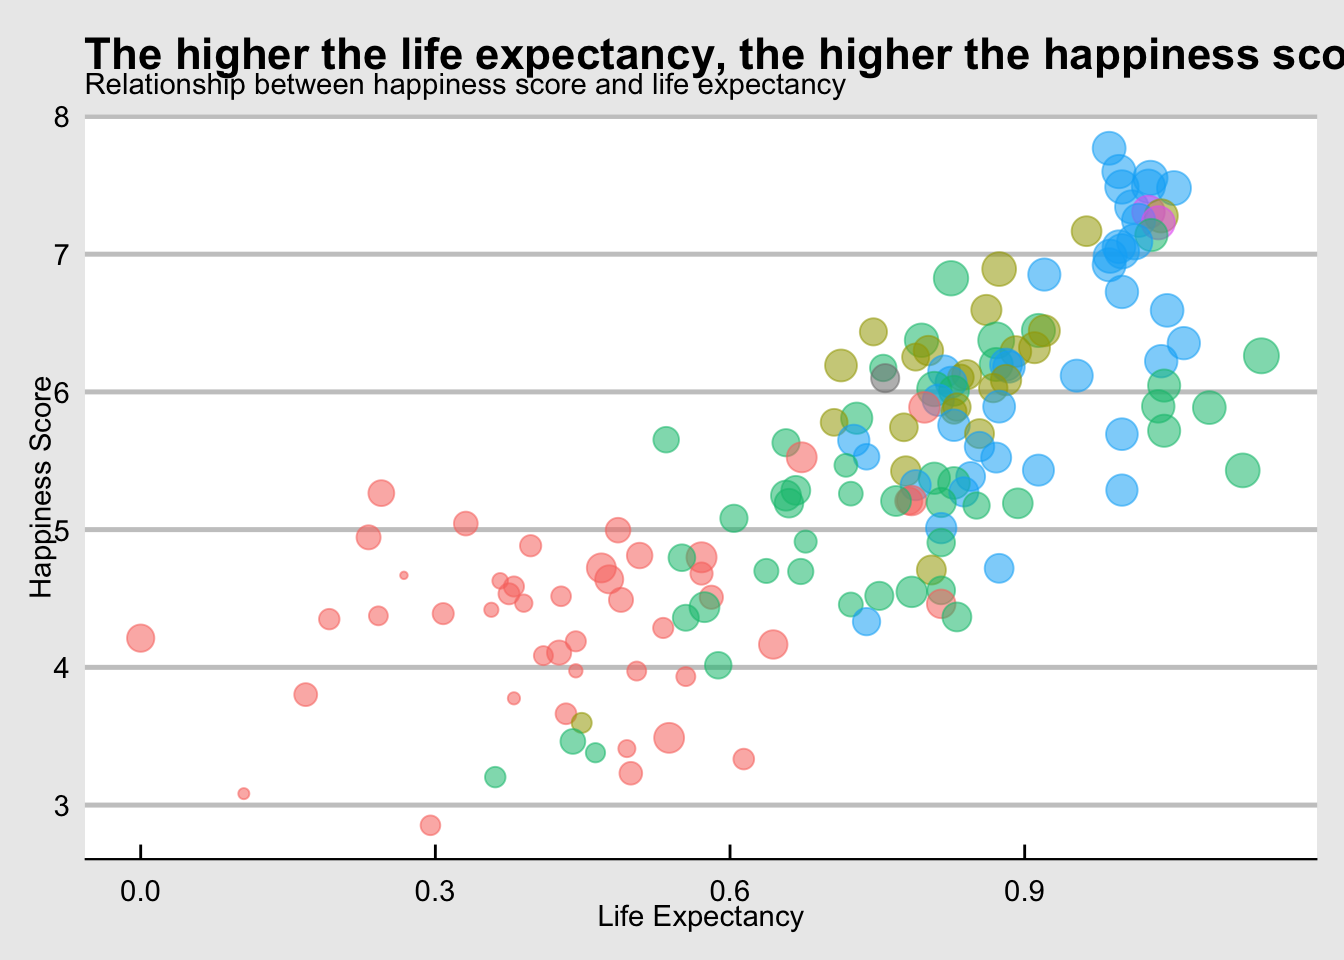
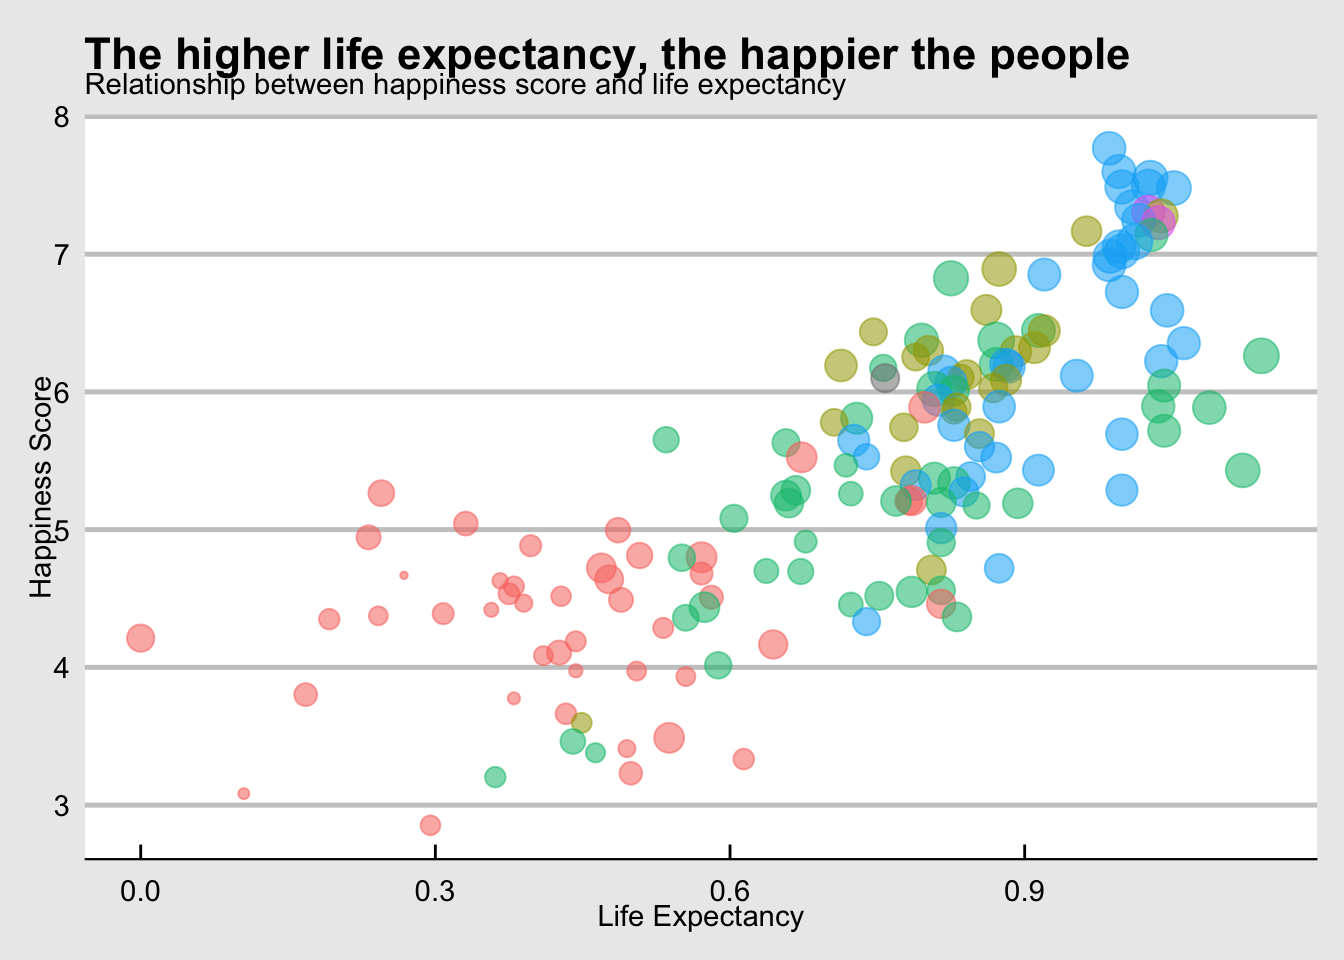
Changes

Changed region(s): [[0.25, 0.0312, 1.0, 0.0938]]

diff --git a/content/projects/project3.html b/content/projects/project3.html
@@ -326,8 +326,9 @@ ggplot(whr_19,
   geom_point()+
 
 # add labels
-  labs(title=&quot;The higher the life expectancy, the higher the happiness score&quot;,
-       subtitle = &quot;Relationship between happiness score and life expectancy&quot;, x=&quot;Life Expectancy&quot;,
+  labs(title=&quot;The higher life expectancy, the happier the people&quot;,
+       subtitle = &quot;Relationship between happiness score and life expectancy&quot;, 
+       x=&quot;Life Expectancy&quot;,
        y=&quot;Happiness Score&quot;)+
   
 #add theme

diff --git a/public/projects/project3/index.html b/public/projects/project3/index.html
@@ -400,8 +400,9 @@ ggplot(whr_19,
   geom_point()+
 
 # add labels
-  labs(title=&quot;The higher the life expectancy, the higher the happiness score&quot;,
-       subtitle = &quot;Relationship between happiness score and life expectancy&quot;, x=&quot;Life Expectancy&quot;,
+  labs(title=&quot;The higher life expectancy, the happier the people&quot;,
+       subtitle = &quot;Relationship between happiness score and life expectancy&quot;, 
+       x=&quot;Life Expectancy&quot;,
        y=&quot;Happiness Score&quot;)+
   
 #add theme
